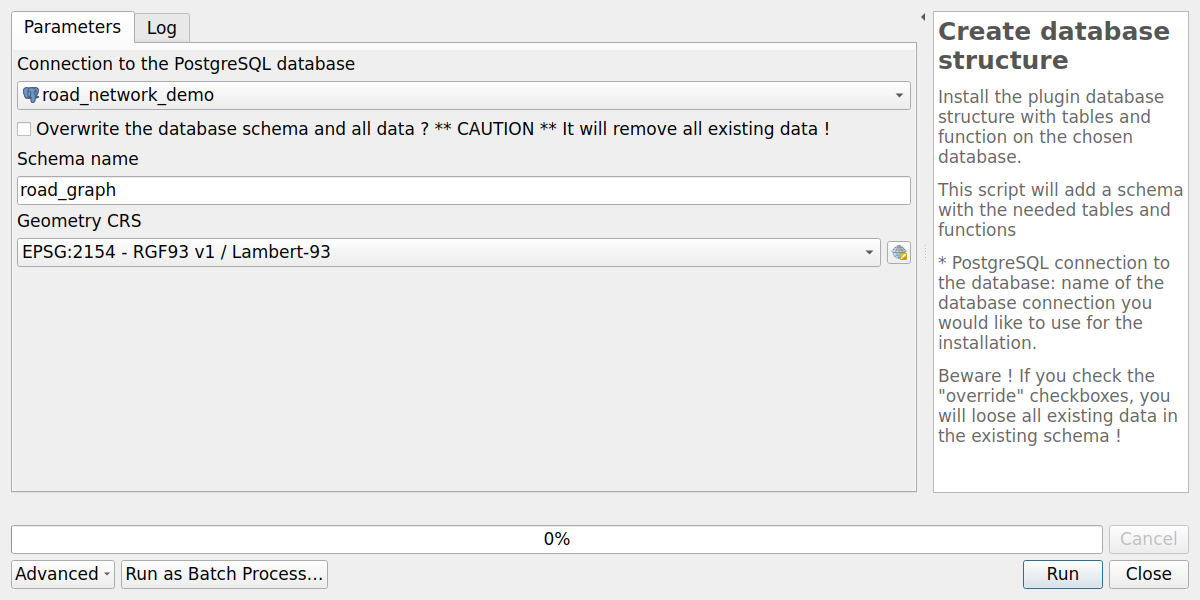
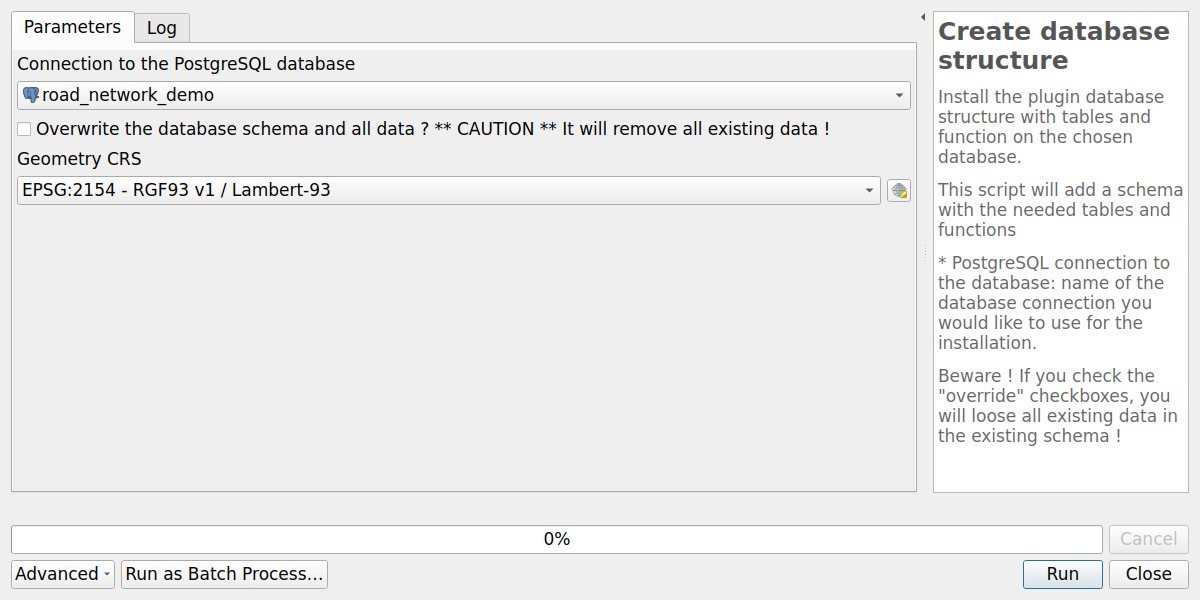
Processing - Remove Schema name parameter in create & upgrade database structure (road_graph always used)

diff --git a/roadnetwork/processing/database/alg_upgrade.py b/roadnetwork/processing/database/alg_upgrade.py
@@ -8,7 +8,6 @@ from qgis.core import (
     QgsProcessingOutputString,
     QgsProcessingParameterBoolean,
     QgsProcessingParameterProviderConnection,
-    QgsProcessingParameterString,
     QgsProject,
     QgsProviderConnectionException,
     QgsProviderRegistry,
@@ -24,7 +23,6 @@ tr = i18n.tr
 class UpgradeDatabaseStructure(BaseDatabaseAlgorithm):
     CONNECTION_NAME = "CONNECTION_NAME"
     RUN_MIGRATIONS = "RUN_MIGRATIONS"
-    SCHEMA = "SCHEMA"
     OUTPUT_STATUS = "OUTPUT_STATUS"
     OUTPUT_STRING = "OUTPUT_STRING"
 
@@ -68,13 +66,6 @@ class UpgradeDatabaseStructure(BaseDatabaseAlgorithm):
             )
         )
 
-        self.addParameter(
-            QgsProcessingParameterString(
-                self.SCHEMA,
-                tr("Schema name"),
-                defaultValue=resources.schema_name(),
-            ),
-        )
 
         # OUTPUTS
         # Add output for status (integer) and message (string)
@@ -95,7 +86,8 @@ class UpgradeDatabaseStructure(BaseDatabaseAlgorithm):
             return False, tr('You must use the "Configure plugin" alg to set the database connection name')
 
         connection = metadata.findConnection(connection_name)
-        schema = self.parameterAsString(parameters, self.SCHEMA, context)
+        # The plugin schema name cannot be changed
+        schema = resources.schema_name()
 
         # # Check that it corresponds to an existing connection
         # if connection_name not in get_postgis_connection_list():
@@ -299,7 +291,8 @@ class UpgradeDatabaseStructure(BaseDatabaseAlgorithm):
 
     def processAlgorithm(self, parameters, context, feedback):
         connection_name = self.parameterAsConnectionName(parameters, self.CONNECTION_NAME, context)
-        schema = self.parameterAsString(parameters, self.SCHEMA, context)
+        # The plugin schema name cannot be changed
+        schema = resources.schema_name()
         # Run migration
         run_migrations = self.parameterAsBool(parameters, self.RUN_MIGRATIONS, context)
         if not run_migrations:

diff --git a/roadnetwork/processing/database/alg_create.py b/roadnetwork/processing/database/alg_create.py
@@ -11,7 +11,6 @@ from qgis.core import (
     QgsProcessingParameterBoolean,
     QgsProcessingParameterCrs,
     QgsProcessingParameterProviderConnection,
-    QgsProcessingParameterString,
     QgsProject,
     QgsProviderConnectionException,
     QgsProviderRegistry,
@@ -31,7 +30,6 @@ class CreateDatabaseStructure(BaseDatabaseAlgorithm):
 
     CONNECTION_NAME = "CONNECTION_NAME"
     OVERRIDE = "OVERRIDE"
-    SCHEMA = "SCHEMA"
     CRS = "CRS"
 
     OUTPUT_STATUS = "OUTPUT_STATUS"
@@ -86,13 +84,6 @@ class CreateDatabaseStructure(BaseDatabaseAlgorithm):
         )
 
         self.addParameter(
-            QgsProcessingParameterString(
-                self.SCHEMA,
-                tr("Schema name"),
-                defaultValue=resources.schema_name(),
-            ),
-        )
-        self.addParameter(
             QgsProcessingParameterCrs(
                 self.CRS,
                 tr("Geometry CRS"),
@@ -116,7 +107,8 @@ class CreateDatabaseStructure(BaseDatabaseAlgorithm):
         )
         connection = metadata.findConnection(connection_name)
         override = self.parameterAsBoolean(parameters, self.OVERRIDE, context)
-        schema = self.parameterAsString(parameters, self.SCHEMA, context)
+        # The plugin schema name cannot be changed
+        schema = resources.schema_name()
 
         if schema in connection.schemas() and not override:
             msg = tr(
@@ -243,7 +235,8 @@ class CreateDatabaseStructure(BaseDatabaseAlgorithm):
 
     def processAlgorithm(self, parameters, context, feedback):
         connection_name = self.parameterAsConnectionName(parameters, self.CONNECTION_NAME, context)
-        schema = self.parameterAsString(parameters, self.SCHEMA, context)
+        # The plugin schema name cannot be changed
+        schema = resources.schema_name()
         override = self.parameterAsBool(parameters, self.OVERRIDE, context)
         install_dir = resources.plugin_path().joinpath("install", "sql")
         version = resources.schema_version()

diff --git a/CHANGELOG.md b/CHANGELOG.md
@@ -11,6 +11,11 @@
   and refreshed at the end of the function `merge_editing_session_data`.
   The QGIS administration project uses it instead of the view `v_managed_objects`
 
+### Changed
+
+* **Processing**: remove the `Schema name` parameter from the algorithms `Create database structure`
+  and `Upgrade database structure`: the plugin schema is always `road_graph`
+
 ### Fixed
 
 * **Locator**: remove the prefix `rr`, which was ignored by QGIS
